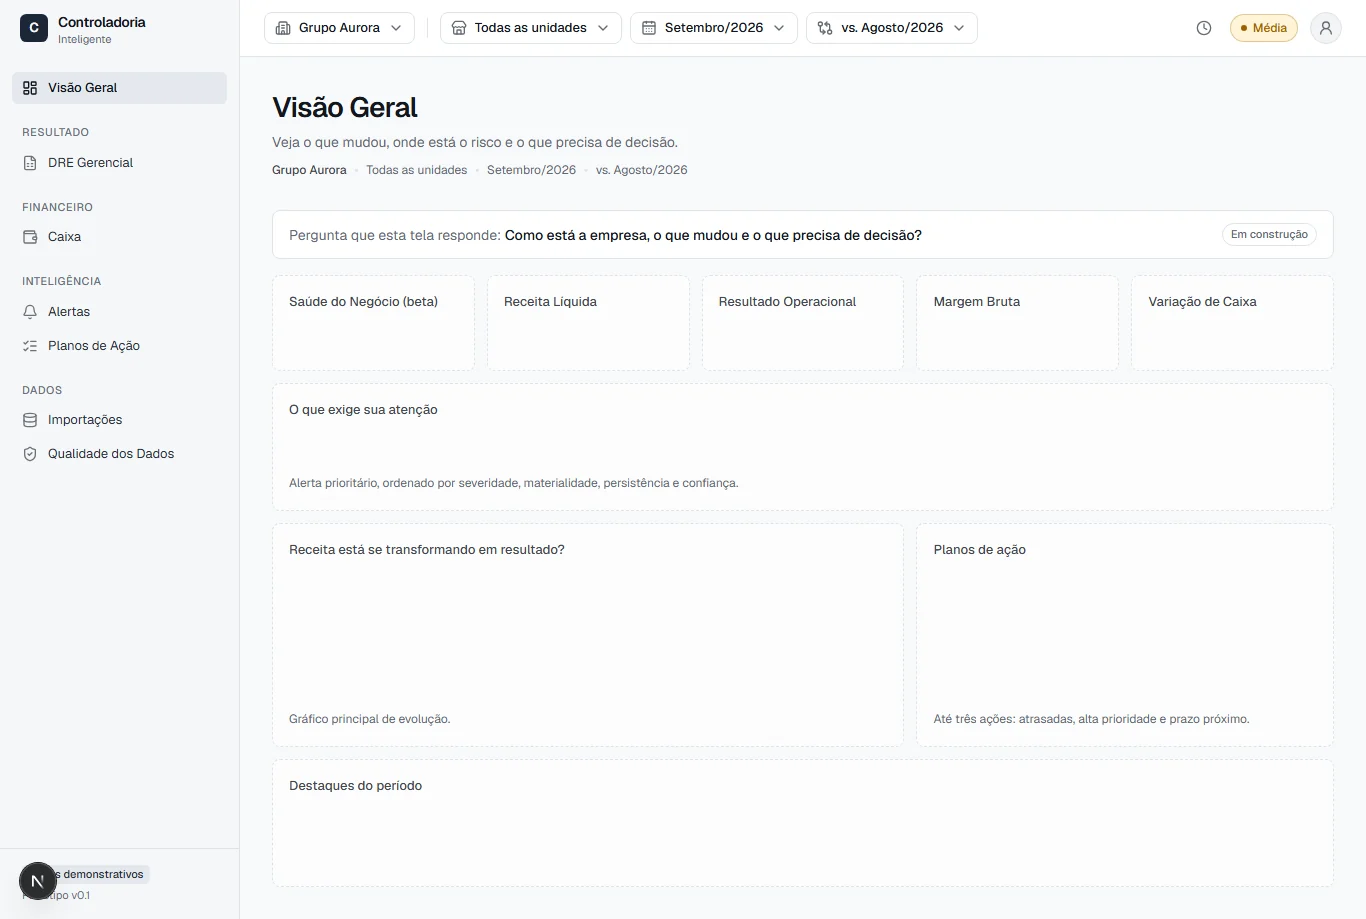
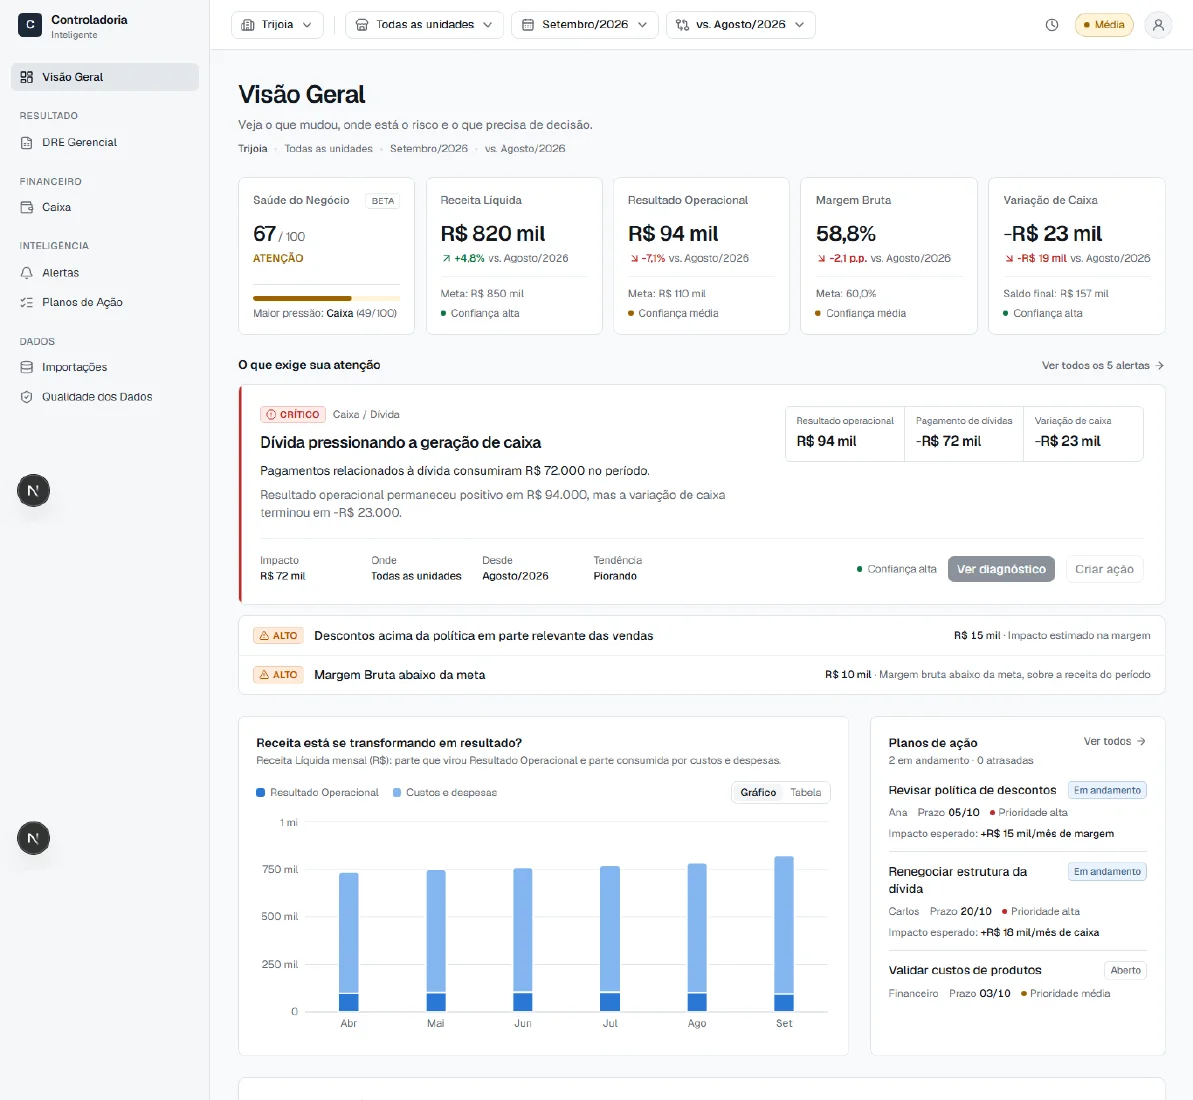
Refina seção de posicionamento e atualiza BPO

diff --git a/index.html b/index.html
@@ -120,7 +120,7 @@
             <img src="assets/jobup-home.webp" srcset="assets/jobup-home-480.webp 480w, assets/jobup-home-768.webp 768w, assets/jobup-home.webp 1418w" sizes="(max-width: 720px) 60vw, (max-width: 960px) 52vw, 40vw" alt="Tela inicial da plataforma JobUp" width="1418" height="673" fetchpriority="low" decoding="async">
           </figure>
           <figure class="hero-shot hero-shot--bpo" data-depth="0.5">
-            <img src="assets/bpo-dashboard.webp" srcset="assets/bpo-dashboard-480.webp 480w, assets/bpo-dashboard-768.webp 768w, assets/bpo-dashboard.webp 1366w" sizes="(max-width: 960px) 48vw, 38vw" alt="Dashboard em desenvolvimento da aplicação de controladoria" width="1366" height="919" fetchpriority="low" decoding="async">
+            <img src="assets/bpo-dashboard.webp" srcset="assets/bpo-dashboard-480.webp 480w, assets/bpo-dashboard-768.webp 768w, assets/bpo-dashboard.webp 1193w" sizes="(max-width: 960px) 48vw, 38vw" alt="Dashboard da aplicação de controladoria com KPIs, alertas, gráfico e planos de ação" width="1193" height="1100" fetchpriority="low" decoding="async">
           </figure>
           <figure class="hero-shot hero-shot--bread" data-depth="0.35">
             <img src="assets/breadvale-hero.webp" srcset="assets/breadvale-hero-480.webp 480w, assets/breadvale-hero-768.webp 768w, assets/breadvale-hero.webp 1225w" sizes="31vw" alt="Hero do projeto demonstrativo BreadVale" width="1225" height="850" fetchpriority="low" decoding="async">
@@ -297,7 +297,7 @@
               </div>
               <div class="project__media showcase showcase--single showcase--bpo">
                 <figure class="showcase__screen showcase__screen--desktop showcase__screen--full">
-                  <img src="assets/bpo-dashboard.webp" alt="Visão Geral da aplicação de controladoria em desenvolvimento" width="1366" height="919" loading="lazy">
+                  <img src="assets/bpo-dashboard.webp" alt="Tela de visão geral da aplicação de controladoria com indicadores, alertas, gráfico e planos de ação" width="1193" height="1100" loading="lazy">
                 </figure>
                 <div class="bpo-status" aria-hidden="true"><span></span> versão em construção</div>
               </div>
@@ -336,6 +336,18 @@
           <h2 id="capabilities-title" class="section-title reveal-title">O que eu desenvolvo</h2>
         </div>
         <p class="section-copy reveal-item">O formato depende do problema. Em alguns casos, um site resolve. Em outros, faz mais sentido um simulador, uma ferramenta ou um produto mais amplo.</p>
+      </div>
+
+      
+      <div class="shell capability-marquee reveal-item" aria-hidden="true">
+        <div class="capability-marquee__viewport">
+          <div class="capability-marquee__track">
+            <span>Sites e presença digital</span><span>Simuladores e calculadoras</span><span>Ferramentas digitais</span><span>Produtos digitais e protótipos</span>
+          </div>
+          <div class="capability-marquee__track" aria-hidden="true">
+            <span>Sites e presença digital</span><span>Simuladores e calculadoras</span><span>Ferramentas digitais</span><span>Produtos digitais e protótipos</span>
+          </div>
+        </div>
       </div>
 
       <div class="shell capability-list">
@@ -423,7 +435,7 @@
       <div class="shell positioning__grid">
         <div class="positioning__copy">
           <p class="eyebrow">POSICIONAMENTO</p>
-          <h2 id="positioning-title" class="section-title reveal-title">O site precisa <span class="marker-underline">conversar</span> com a <span class="marker-circle">imagem</span> que o negócio já construiu.</h2>
+          <h2 id="positioning-title" class="section-title reveal-title">O site precisa <span class="marker-underline">conversar</span> com a imagem que o negócio já construiu.</h2>
           <p class="section-copy reveal-item">Antes de definir layout e conteúdo, eu observo como a empresa se apresenta hoje: Instagram, identidade visual, serviços, linguagem, paleta, materiais e sinais de posicionamento. O objetivo é levar essa leitura para uma página mais organizada, mantendo coerência com a marca.</p>
         </div>
         <div class="positioning-list">

diff --git a/css/styles.css b/css/styles.css
@@ -1115,6 +1115,60 @@ html[data-preloader="seen"] .preloader,
   border-color: var(--blue);
 }
 
+
+.capability-marquee {
+  overflow: hidden;
+  margin: 0 0 20px;
+}
+
+.capability-marquee__viewport {
+  display: flex;
+  align-items: center;
+  gap: 18px;
+  width: max-content;
+  min-width: 100%;
+  padding: 18px 0 22px;
+  border-top: 1px solid var(--border-light);
+  border-bottom: 1px solid var(--border-light);
+  animation: capabilityTicker 24s linear infinite;
+}
+
+.capability-marquee__track {
+  display: flex;
+  align-items: center;
+  gap: 14px;
+  flex: 0 0 auto;
+  min-width: max-content;
+}
+
+.capability-marquee__track span {
+  display: inline-flex;
+  align-items: center;
+  min-height: 38px;
+  padding: 0 16px;
+  border: 1px solid rgba(14, 17, 23, .12);
+  border-radius: 999px;
+  background: rgba(255,255,255,.44);
+  font-size: .9rem;
+  color: var(--text-dark);
+  white-space: nowrap;
+}
+
+.capability-marquee__track span::before {
+  content: "";
+  width: 7px;
+  height: 7px;
+  border-radius: 50%;
+  margin-right: 10px;
+  background: var(--blue);
+  opacity: .8;
+}
+
+@keyframes capabilityTicker {
+  from { transform: translateX(0); }
+  to { transform: translateX(calc(-50% - 9px)); }
+}
+
 /* Method */
 .method {
   padding: 132px 0;
@@ -2759,6 +2813,21 @@ html[data-preloader="seen"] .preloader,
 }
 
 @media (max-width: 720px) {
+  .capability-marquee {
+    margin-bottom: 14px;
+  }
+  .capability-marquee__viewport {
+    gap: 14px;
+    padding: 14px 0 18px;
+  }
+  .capability-marquee__track {
+    gap: 10px;
+  }
+  .capability-marquee__track span {
+    min-height: 34px;
+    padding: 0 13px;
+    font-size: .82rem;
+  }
   .portfolio-switch-wrap { padding-bottom: 28px; }
   .portfolio-switch {
     width: 100%;
@@ -2826,6 +2895,14 @@ html[data-preloader="seen"] .preloader,
 }
 
 @media (prefers-reduced-motion: reduce) {
+  .capability-marquee__viewport {
+    animation: none;
+    width: 100%;
+    min-width: 0;
+    overflow-x: auto;
+    scrollbar-width: none;
+  }
+  .capability-marquee__viewport::-webkit-scrollbar { display: none; }
   .portfolio-group { animation: none; }
   .showcase:hover .showcase__screen--desktop,
   .showcase:hover .showcase__screen--phone,
